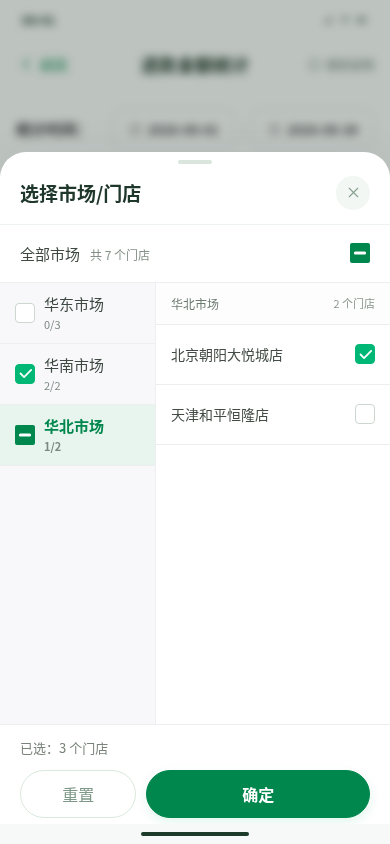
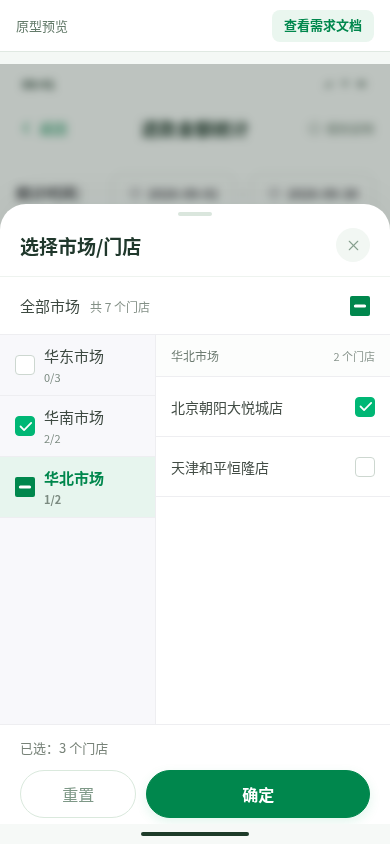
fix: make requirements document discoverable on every preview width

diff --git a/output/refund-report-market-columns/refund-market-selector.html b/output/refund-report-market-columns/refund-market-selector.html
@@ -252,6 +252,9 @@ button,input{font:inherit}button{cursor:pointer}button:disabled{cursor:default}b
 .requirements-reasons p{margin:3px 0 0}
 @media(max-width:900px) and (min-width:461px){.stage{flex-direction:column;align-items:center;gap:28px}.requirements-panel{flex:none;width:min(100%,620px);height:auto;max-height:894px;min-height:500px}}
 @media(max-width:460px){.stage{flex-direction:column;align-items:stretch;gap:24px}.requirements-panel{flex:none;margin:0 12px 24px;width:calc(100% - 24px);height:auto;border-radius:18px}.requirements-header{padding:22px 20px 18px}.requirements-header h2{font-size:21px}.requirements-content{overflow:visible;padding:22px 20px 28px;flex:none}.requirements-section li{font-size:14px}}
+.stage{flex-wrap:wrap;row-gap:16px}.requirements-toolbar{display:flex;align-items:center;justify-content:space-between;gap:16px;flex:0 0 100%;max-width:1062px;min-height:48px;padding:8px 16px;border:1px solid #dce6df;border-radius:12px;background:#fff;color:#647b6a;font-size:13px}.requirements-toolbar a{display:block;min-height:32px;padding:5px 12px;border-radius:8px;background:#eaf6ef;color:#00874d;text-decoration:none;font-weight:600}.requirements-header{position:relative}.requirements-back{display:none;font-size:12px;color:#00874d;text-decoration:none}.requirements-toolbar a:focus-visible,.requirements-back:focus-visible{outline:2px solid #00874d;outline-offset:3px}
+@media(max-width:900px){.requirements-toolbar{display:flex;flex:none;align-items:center;justify-content:space-between;gap:16px;width:min(100%,620px);min-height:48px;padding:8px 16px;border:1px solid #dce6df;border-radius:12px;background:#fff;color:#647b6a;font-size:13px}.requirements-toolbar a{display:block;min-height:32px;padding:5px 12px;border-radius:8px;background:#eaf6ef;color:#00874d;text-decoration:none;font-weight:600}.requirements-back{display:block;position:absolute;right:24px;top:27px}}
+@media(max-width:460px){.stage{gap:12px}.requirements-toolbar{min-height:52px;border:0;border-bottom:1px solid #e0e9e2;border-radius:0}.phone{height:calc(100dvh - 64px)}.requirements-panel{margin-top:12px}.requirements-back{right:20px;top:23px}}
 </style>
[1 lines of base64/hex data omitted]
 </head>
@@ -259,7 +262,8 @@ button,input{font:inherit}button{cursor:pointer}button:disabled{cursor:default}b
 <div class="stage">
 
 
-  <div class="phone">
+  <nav class="requirements-toolbar" aria-label="预览与需求文档"><span>原型预览</span><a href="#requirementsTitle">查看需求文档</a></nav>
+  <div class="phone" id="mobilePreview">
     <div class="statusbar" aria-hidden="true"><span>09:41</span><div class="status-icons"><svg class="icon" xmlns="http://www.w3.org/2000/svg" width="18" height="18" viewBox="0 0 24 24" fill="none" stroke="currentColor" stroke-width="1.5" stroke-linecap="round" stroke-linejoin="round" aria-hidden="true"> <path stroke="none" d="M0 0h24v24H0z" fill="none"/> <path d="M6 18l0 -3" /> <path d="M10 18l0 -6" /> <path d="M14 18l0 -9" /> <path d="M18 18l0 -12" /> </svg><svg class="icon" xmlns="http://www.w3.org/2000/svg" width="18" height="18" viewBox="0 0 24 24" fill="none" stroke="currentColor" stroke-width="1.5" stroke-linecap="round" stroke-linejoin="round" aria-hidden="true"> <path stroke="none" d="M0 0h24v24H0z" fill="none"/> <path d="M12 18l.01 0" /> <path d="M9.172 15.172a4 4 0 0 1 5.656 0" /> <path d="M6.343 12.343a8 8 0 0 1 11.314 0" /> <path d="M3.515 9.515c4.686 -4.687 12.284 -4.687 17 0" /> </svg><svg class="icon" xmlns="http://www.w3.org/2000/svg" width="18" height="18" viewBox="0 0 24 24" fill="none" stroke="currentColor" stroke-width="1.5" stroke-linecap="round" stroke-linejoin="round" aria-hidden="true"> <path stroke="none" d="M0 0h24v24H0z" fill="none"/> <path d="M6 7h11a2 2 0 0 1 2 2v.5a.5 .5 0 0 0 .5 .5a.5 .5 0 0 1 .5 .5v3a.5 .5 0 0 1 -.5 .5a.5 .5 0 0 0 -.5 .5v.5a2 2 0 0 1 -2 2h-11a2 2 0 0 1 -2 -2v-6a2 2 0 0 1 2 -2" /> <path d="M7 10l0 4" /> <path d="M10 10l0 4" /> <path d="M13 10l0 4" /> </svg></div></div>
     <header class="nav"><button class="nav-back" id="btnBack" aria-label="返回上一页"><svg class="icon" xmlns="http://www.w3.org/2000/svg" width="18" height="18" viewBox="0 0 24 24" fill="none" stroke="currentColor" stroke-width="1.5" stroke-linecap="round" stroke-linejoin="round" aria-hidden="true"> <path stroke="none" d="M0 0h24v24H0z" fill="none"/> <path d="M15 6l-6 6l6 6" /> </svg><span>返回</span></button><h1 class="brand-title">退款金额统计</h1><button class="help" id="btnHelp"><svg class="icon" xmlns="http://www.w3.org/2000/svg" width="18" height="18" viewBox="0 0 24 24" fill="none" stroke="currentColor" stroke-width="1.5" stroke-linecap="round" stroke-linejoin="round" aria-hidden="true"> <path stroke="none" d="M0 0h24v24H0z" fill="none"/> <path d="M3 12a9 9 0 1 0 18 0a9 9 0 0 0 -18 0" /> <path d="M12 9h.01" /> <path d="M11 12h1v4h1" /> </svg><span>规则说明</span></button></header>
 
@@ -314,7 +318,7 @@ button,input{font:inherit}button{cursor:pointer}button:disabled{cursor:default}b
   </div>
 
   <aside class="requirements-panel" aria-labelledby="requirementsTitle">
-    <header class="requirements-header"><span class="requirements-kicker">需求文档</span><h2 id="requirementsTitle">退款金额统计</h2></header>
+    <header class="requirements-header"><a class="requirements-back" href="#mobilePreview">返回原型</a><span class="requirements-kicker">需求文档</span><h2 id="requirementsTitle">退款金额统计</h2></header>
     <div class="requirements-content" tabindex="0" aria-label="退款金额统计需求文档，可滚动阅读">
       <section class="requirements-section"><h3><span>01</span>统计时间</h3><ul>
         <li>默认今日，支持自定义选择范围。</li>

diff --git a/output/refund-report-market-columns/refund.html b/output/refund-report-market-columns/refund.html
@@ -252,6 +252,9 @@ button,input{font:inherit}button{cursor:pointer}button:disabled{cursor:default}b
 .requirements-reasons p{margin:3px 0 0}
 @media(max-width:900px) and (min-width:461px){.stage{flex-direction:column;align-items:center;gap:28px}.requirements-panel{flex:none;width:min(100%,620px);height:auto;max-height:894px;min-height:500px}}
 @media(max-width:460px){.stage{flex-direction:column;align-items:stretch;gap:24px}.requirements-panel{flex:none;margin:0 12px 24px;width:calc(100% - 24px);height:auto;border-radius:18px}.requirements-header{padding:22px 20px 18px}.requirements-header h2{font-size:21px}.requirements-content{overflow:visible;padding:22px 20px 28px;flex:none}.requirements-section li{font-size:14px}}
+.stage{flex-wrap:wrap;row-gap:16px}.requirements-toolbar{display:flex;align-items:center;justify-content:space-between;gap:16px;flex:0 0 100%;max-width:1062px;min-height:48px;padding:8px 16px;border:1px solid #dce6df;border-radius:12px;background:#fff;color:#647b6a;font-size:13px}.requirements-toolbar a{display:block;min-height:32px;padding:5px 12px;border-radius:8px;background:#eaf6ef;color:#00874d;text-decoration:none;font-weight:600}.requirements-header{position:relative}.requirements-back{display:none;font-size:12px;color:#00874d;text-decoration:none}.requirements-toolbar a:focus-visible,.requirements-back:focus-visible{outline:2px solid #00874d;outline-offset:3px}
+@media(max-width:900px){.requirements-toolbar{display:flex;flex:none;align-items:center;justify-content:space-between;gap:16px;width:min(100%,620px);min-height:48px;padding:8px 16px;border:1px solid #dce6df;border-radius:12px;background:#fff;color:#647b6a;font-size:13px}.requirements-toolbar a{display:block;min-height:32px;padding:5px 12px;border-radius:8px;background:#eaf6ef;color:#00874d;text-decoration:none;font-weight:600}.requirements-back{display:block;position:absolute;right:24px;top:27px}}
+@media(max-width:460px){.stage{gap:12px}.requirements-toolbar{min-height:52px;border:0;border-bottom:1px solid #e0e9e2;border-radius:0}.phone{height:calc(100dvh - 64px)}.requirements-panel{margin-top:12px}.requirements-back{right:20px;top:23px}}
 </style>
[1 lines of base64/hex data omitted]
 </head>
@@ -259,7 +262,8 @@ button,input{font:inherit}button{cursor:pointer}button:disabled{cursor:default}b
 <div class="stage">
 
 
-  <div class="phone">
+  <nav class="requirements-toolbar" aria-label="预览与需求文档"><span>原型预览</span><a href="#requirementsTitle">查看需求文档</a></nav>
+  <div class="phone" id="mobilePreview">
     <div class="statusbar" aria-hidden="true"><span>09:41</span><div class="status-icons"><svg class="icon" xmlns="http://www.w3.org/2000/svg" width="18" height="18" viewBox="0 0 24 24" fill="none" stroke="currentColor" stroke-width="1.5" stroke-linecap="round" stroke-linejoin="round" aria-hidden="true"> <path stroke="none" d="M0 0h24v24H0z" fill="none"/> <path d="M6 18l0 -3" /> <path d="M10 18l0 -6" /> <path d="M14 18l0 -9" /> <path d="M18 18l0 -12" /> </svg><svg class="icon" xmlns="http://www.w3.org/2000/svg" width="18" height="18" viewBox="0 0 24 24" fill="none" stroke="currentColor" stroke-width="1.5" stroke-linecap="round" stroke-linejoin="round" aria-hidden="true"> <path stroke="none" d="M0 0h24v24H0z" fill="none"/> <path d="M12 18l.01 0" /> <path d="M9.172 15.172a4 4 0 0 1 5.656 0" /> <path d="M6.343 12.343a8 8 0 0 1 11.314 0" /> <path d="M3.515 9.515c4.686 -4.687 12.284 -4.687 17 0" /> </svg><svg class="icon" xmlns="http://www.w3.org/2000/svg" width="18" height="18" viewBox="0 0 24 24" fill="none" stroke="currentColor" stroke-width="1.5" stroke-linecap="round" stroke-linejoin="round" aria-hidden="true"> <path stroke="none" d="M0 0h24v24H0z" fill="none"/> <path d="M6 7h11a2 2 0 0 1 2 2v.5a.5 .5 0 0 0 .5 .5a.5 .5 0 0 1 .5 .5v3a.5 .5 0 0 1 -.5 .5a.5 .5 0 0 0 -.5 .5v.5a2 2 0 0 1 -2 2h-11a2 2 0 0 1 -2 -2v-6a2 2 0 0 1 2 -2" /> <path d="M7 10l0 4" /> <path d="M10 10l0 4" /> <path d="M13 10l0 4" /> </svg></div></div>
     <header class="nav"><button class="nav-back" id="btnBack" aria-label="返回上一页"><svg class="icon" xmlns="http://www.w3.org/2000/svg" width="18" height="18" viewBox="0 0 24 24" fill="none" stroke="currentColor" stroke-width="1.5" stroke-linecap="round" stroke-linejoin="round" aria-hidden="true"> <path stroke="none" d="M0 0h24v24H0z" fill="none"/> <path d="M15 6l-6 6l6 6" /> </svg><span>返回</span></button><h1 class="brand-title">退款金额统计</h1><button class="help" id="btnHelp"><svg class="icon" xmlns="http://www.w3.org/2000/svg" width="18" height="18" viewBox="0 0 24 24" fill="none" stroke="currentColor" stroke-width="1.5" stroke-linecap="round" stroke-linejoin="round" aria-hidden="true"> <path stroke="none" d="M0 0h24v24H0z" fill="none"/> <path d="M3 12a9 9 0 1 0 18 0a9 9 0 0 0 -18 0" /> <path d="M12 9h.01" /> <path d="M11 12h1v4h1" /> </svg><span>规则说明</span></button></header>
 
@@ -314,7 +318,7 @@ button,input{font:inherit}button{cursor:pointer}button:disabled{cursor:default}b
   </div>
 
   <aside class="requirements-panel" aria-labelledby="requirementsTitle">
-    <header class="requirements-header"><span class="requirements-kicker">需求文档</span><h2 id="requirementsTitle">退款金额统计</h2></header>
+    <header class="requirements-header"><a class="requirements-back" href="#mobilePreview">返回原型</a><span class="requirements-kicker">需求文档</span><h2 id="requirementsTitle">退款金额统计</h2></header>
     <div class="requirements-content" tabindex="0" aria-label="退款金额统计需求文档，可滚动阅读">
       <section class="requirements-section"><h3><span>01</span>统计时间</h3><ul>
         <li>默认今日，支持自定义选择范围。</li>

diff --git a/output/refund-report-mobile/refund.html b/output/refund-report-mobile/refund.html
@@ -252,6 +252,9 @@ button,input{font:inherit}button{cursor:pointer}button:disabled{cursor:default}b
 .requirements-reasons p{margin:3px 0 0}
 @media(max-width:900px) and (min-width:461px){.stage{flex-direction:column;align-items:center;gap:28px}.requirements-panel{flex:none;width:min(100%,620px);height:auto;max-height:894px;min-height:500px}}
 @media(max-width:460px){.stage{flex-direction:column;align-items:stretch;gap:24px}.requirements-panel{flex:none;margin:0 12px 24px;width:calc(100% - 24px);height:auto;border-radius:18px}.requirements-header{padding:22px 20px 18px}.requirements-header h2{font-size:21px}.requirements-content{overflow:visible;padding:22px 20px 28px;flex:none}.requirements-section li{font-size:14px}}
+.stage{flex-wrap:wrap;row-gap:16px}.requirements-toolbar{display:flex;align-items:center;justify-content:space-between;gap:16px;flex:0 0 100%;max-width:1062px;min-height:48px;padding:8px 16px;border:1px solid #dce6df;border-radius:12px;background:#fff;color:#647b6a;font-size:13px}.requirements-toolbar a{display:block;min-height:32px;padding:5px 12px;border-radius:8px;background:#eaf6ef;color:#00874d;text-decoration:none;font-weight:600}.requirements-header{position:relative}.requirements-back{display:none;font-size:12px;color:#00874d;text-decoration:none}.requirements-toolbar a:focus-visible,.requirements-back:focus-visible{outline:2px solid #00874d;outline-offset:3px}
+@media(max-width:900px){.requirements-toolbar{display:flex;flex:none;align-items:center;justify-content:space-between;gap:16px;width:min(100%,620px);min-height:48px;padding:8px 16px;border:1px solid #dce6df;border-radius:12px;background:#fff;color:#647b6a;font-size:13px}.requirements-toolbar a{display:block;min-height:32px;padding:5px 12px;border-radius:8px;background:#eaf6ef;color:#00874d;text-decoration:none;font-weight:600}.requirements-back{display:block;position:absolute;right:24px;top:27px}}
+@media(max-width:460px){.stage{gap:12px}.requirements-toolbar{min-height:52px;border:0;border-bottom:1px solid #e0e9e2;border-radius:0}.phone{height:calc(100dvh - 64px)}.requirements-panel{margin-top:12px}.requirements-back{right:20px;top:23px}}
 </style>
[1 lines of base64/hex data omitted]
 </head>
@@ -259,7 +262,8 @@ button,input{font:inherit}button{cursor:pointer}button:disabled{cursor:default}b
 <div class="stage">
 
 
-  <div class="phone">
+  <nav class="requirements-toolbar" aria-label="预览与需求文档"><span>原型预览</span><a href="#requirementsTitle">查看需求文档</a></nav>
+  <div class="phone" id="mobilePreview">
     <div class="statusbar" aria-hidden="true"><span>09:41</span><div class="status-icons"><svg class="icon" xmlns="http://www.w3.org/2000/svg" width="18" height="18" viewBox="0 0 24 24" fill="none" stroke="currentColor" stroke-width="1.5" stroke-linecap="round" stroke-linejoin="round" aria-hidden="true"> <path stroke="none" d="M0 0h24v24H0z" fill="none"/> <path d="M6 18l0 -3" /> <path d="M10 18l0 -6" /> <path d="M14 18l0 -9" /> <path d="M18 18l0 -12" /> </svg><svg class="icon" xmlns="http://www.w3.org/2000/svg" width="18" height="18" viewBox="0 0 24 24" fill="none" stroke="currentColor" stroke-width="1.5" stroke-linecap="round" stroke-linejoin="round" aria-hidden="true"> <path stroke="none" d="M0 0h24v24H0z" fill="none"/> <path d="M12 18l.01 0" /> <path d="M9.172 15.172a4 4 0 0 1 5.656 0" /> <path d="M6.343 12.343a8 8 0 0 1 11.314 0" /> <path d="M3.515 9.515c4.686 -4.687 12.284 -4.687 17 0" /> </svg><svg class="icon" xmlns="http://www.w3.org/2000/svg" width="18" height="18" viewBox="0 0 24 24" fill="none" stroke="currentColor" stroke-width="1.5" stroke-linecap="round" stroke-linejoin="round" aria-hidden="true"> <path stroke="none" d="M0 0h24v24H0z" fill="none"/> <path d="M6 7h11a2 2 0 0 1 2 2v.5a.5 .5 0 0 0 .5 .5a.5 .5 0 0 1 .5 .5v3a.5 .5 0 0 1 -.5 .5a.5 .5 0 0 0 -.5 .5v.5a2 2 0 0 1 -2 2h-11a2 2 0 0 1 -2 -2v-6a2 2 0 0 1 2 -2" /> <path d="M7 10l0 4" /> <path d="M10 10l0 4" /> <path d="M13 10l0 4" /> </svg></div></div>
     <header class="nav"><button class="nav-back" id="btnBack" aria-label="返回上一页"><svg class="icon" xmlns="http://www.w3.org/2000/svg" width="18" height="18" viewBox="0 0 24 24" fill="none" stroke="currentColor" stroke-width="1.5" stroke-linecap="round" stroke-linejoin="round" aria-hidden="true"> <path stroke="none" d="M0 0h24v24H0z" fill="none"/> <path d="M15 6l-6 6l6 6" /> </svg><span>返回</span></button><h1 class="brand-title">退款金额统计</h1><button class="help" id="btnHelp"><svg class="icon" xmlns="http://www.w3.org/2000/svg" width="18" height="18" viewBox="0 0 24 24" fill="none" stroke="currentColor" stroke-width="1.5" stroke-linecap="round" stroke-linejoin="round" aria-hidden="true"> <path stroke="none" d="M0 0h24v24H0z" fill="none"/> <path d="M3 12a9 9 0 1 0 18 0a9 9 0 0 0 -18 0" /> <path d="M12 9h.01" /> <path d="M11 12h1v4h1" /> </svg><span>规则说明</span></button></header>
 
@@ -314,7 +318,7 @@ button,input{font:inherit}button{cursor:pointer}button:disabled{cursor:default}b
   </div>
 
   <aside class="requirements-panel" aria-labelledby="requirementsTitle">
-    <header class="requirements-header"><span class="requirements-kicker">需求文档</span><h2 id="requirementsTitle">退款金额统计</h2></header>
+    <header class="requirements-header"><a class="requirements-back" href="#mobilePreview">返回原型</a><span class="requirements-kicker">需求文档</span><h2 id="requirementsTitle">退款金额统计</h2></header>
     <div class="requirements-content" tabindex="0" aria-label="退款金额统计需求文档，可滚动阅读">
       <section class="requirements-section"><h3><span>01</span>统计时间</h3><ul>
         <li>默认今日，支持自定义选择范围。</li>

diff --git a/output/refund-report-mobile/design-qa.md b/output/refund-report-mobile/design-qa.md
@@ -74,3 +74,7 @@ final result: passed
 ## 手机预览外侧需求文档
 
 按用户提供的五章需求，仅新增独立说明栏，不修改原型业务行为。桌面1280px下位于414px手机框右侧，面板620px宽、894px高，内容独立滚动；768px和390px下排到手机外侧下方，不遮挡原型、不产生横向溢出。完整保留统计时间、筛选条件、退款合计、趋势及多维度明细需求。截图 `previews/requirements-desktop.png`。320/390/485px原筛选交互回归通过。
+
+## 文档可发现性修复
+
+在手机预览外增加所有屏宽可见的“查看需求文档”入口；窄屏点击直接定位下方文档，文档区可返回原型。桌面仍为手机与说明栏并排。390/768/1280px检查入口可见、跳转可达、宽屏两栏顶端对齐且无横向溢出；原有320/390/485px筛选回归通过。用户反馈未见文档，尚待其提供实际地址以排除访问旧页面；不以本地验证替代公网发布验证。
